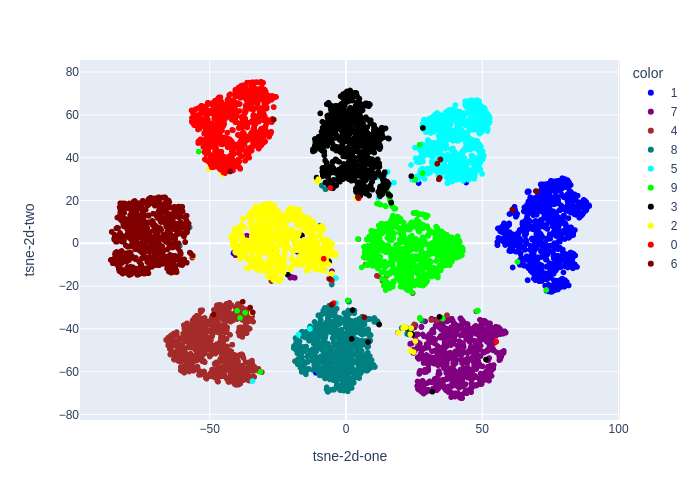
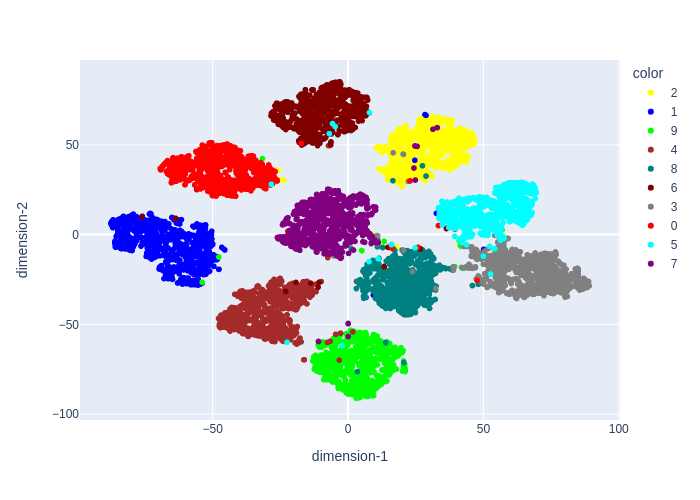
all plots done for phase one

diff --git a/plot_ssin.py b/plot_ssin.py
@@ -1,0 +1,194 @@
+"""
+This file is created to plot the SSIN scores of recon, old and new attacks
+with the original images. Let's do this and delete afterwards
+"""
+import yaml
+import time
+import torch
+import numpy as np
+import foolbox as fb
+import torch.nn.functional as F
+import pytorch_lightning as pl
+import matplotlib.pyplot as plt
+from skimage.metrics import structural_similarity as ssim
+from skimage.metrics import peak_signal_noise_ratio as psnr
+
+device = torch.device("cuda") if torch.cuda.is_available() else torch.device("cpu")
+
+from torch import nn
+from torch import Tensor
+from utils import save, load
+from typing import List, Tuple, Callable
+from dataloader import load_mnist
+from models.classifier import MNISTClassifier, CIFAR10Classifier
+from models.autoencoder import ANNAutoencoder, BaseAutoEncoder, CIFAR10Autoencoder
+from attack_new import make_hybrid_model, get_embeddings
+
+# first load the config
+with open("./configs/mnist.yml", "r") as f:
+    config = yaml.safe_load(f)
+
+ROOT             = config["paths"]["root"]
+AUTOENCODER_PATH = config["paths"]["autoencoder-path"]
+CLASSIFIER_PATH  = config["paths"]["classifier-path"]
+BOUNDS           = (config["specs"]["bounds"][0], config["specs"]["bounds"][1])
+PLOT             = config["specs"]["plot"]
+BATCH_SIZE       = config["specs"]["batch_size"]
+RESHAPE          = (config["specs"]["reshape"][0], config["specs"]["reshape"][1])
+LOAD_FUNCTION    = load_mnist
+
+epsilons = [i/100 for i in range(1, 50, 1)]
+attacks = [
+        # fb.attacks.FGSM(),
+        # fb.attacks.LinfPGD(),
+        # fb.attacks.LinfBasicIterativeAttack(),
+        fb.attacks.LinfDeepFoolAttack(),
+        # fb.attacks.L2CarliniWagnerAttack(),
+        # fb.attacks.LinfAdditiveUniformNoiseAttack(),
+    ]
+
+attack_names = [
+    # "FGSM",
+    # "Linf_PGD",
+    # "Linf_BIM",
+    "Linf_DeepFool",
+    # "L2_C&W",
+    # "Linf_AUN"
+]
+
+def filter_images(images: Tensor, labels: Tensor):
+    visited = [False] * 10
+    ten_images, ten_lables = [None]*10, [None]*10
+    for img, lbl in zip(images, labels):
+        if not visited[lbl.item()]:
+            ten_images[lbl.item()] = img
+            ten_lables[lbl.item()] = lbl
+            visited[lbl.item()] = True
+    ten_images = torch.stack(ten_images)
+    ten_lables = torch.stack(ten_lables)
+
+    return ten_images, ten_lables
+
+def compute_ssim(images_1: List[Tensor], images_2: List[Tensor]):
+    """
+    Take a set of two image lists and
+    compute ssim scores between them.
+    
+    return list of ssim scores
+    """
+    assert len(images_1) == len(images_2)
+
+    ssim_score = []
+    for img1, img2 in zip(images_1, images_2):
+        ssim_score.append(psnr(img1.reshape(RESHAPE).detach().cpu().numpy(), img2.reshape(RESHAPE).detach().cpu().numpy()))
+    
+    return ssim_score
+
+saved_tens = load("objects/ten.pkl")
+
+ten_images, ten_labels = saved_tens["images"], saved_tens["labels"]
+
+# call appropiate methods to get models and embeddings
+fmodel, orig_fmodel, autoencoder_model, classifier_model = make_hybrid_model(
+                                            autoencoder_path=AUTOENCODER_PATH,
+                                            classifier_path=CLASSIFIER_PATH,
+                                            bounds=BOUNDS)
+embeddings, images, labels, x_hat = get_embeddings(autoencoder_model=autoencoder_model,
+                                                    images=ten_images, labels=ten_labels)
+
+# launch an attack
+for i, attack in enumerate(attacks):
+
+    print(f"Running {attack_names[i]} Attack....")
+
+    # carryout the attack on original
+    start = time.time()
+    orig_noises, orig_advs, orig_success = attack(orig_fmodel, images, labels, epsilons=epsilons)
+    print(f"Time spent on original attack: {time.time() - start}")
+
+    # carryout the modified attack
+    start = time.time()
+    noises, advs, success = attack(fmodel, embeddings, labels, epsilons=epsilons)
+    print(f"Time spent on modified attack: {time.time() - start}")
+
+plt.figure(figsize=(18, 4))
+INDEX = -1
+fake_images = []
+orig_diff_img = images - orig_noises[INDEX]
+
+recon_images = autoencoder_model(images)[0]
+orig_attack_adv_images = orig_noises[INDEX]
+modified_attack_adv_z = noises[INDEX]
+modified_attack_adv_images = autoencoder_model.get_x_hat(modified_attack_adv_z)
+
+# print(type(images), type(recon_images), type(orig_attack_adv_images), type(modified_attack_adv_images))
+# import pdb; pdb.set_trace()
+
+ssim_scores = {}
+ssim_scores["reconstructed"] = compute_ssim(images, recon_images)
+ssim_scores["orig_adv_images"] = compute_ssim(images, orig_attack_adv_images)
+ssim_scores["modified_adv_images"] = compute_ssim(images, modified_attack_adv_images)
+
+import pprint as pprint
+print(ssim_scores)
+
+
+# for i, img in enumerate(images):
+#     ylabel = "Original" if not i else None
+#     img = img.reshape(RESHAPE).cpu()
+#     plt.subplot(5, 10, i+1, xticks=[], yticks=[], ylabel=ylabel)
+#     plt.imshow(img)
+# for i, img in enumerate(orig_noises[INDEX]):
+#     label = np.argmax(classifier_model(img).detach().cpu()).item()
+#     ylabel = attack_names[0] if not i else None
+#     img = img.reshape(RESHAPE).cpu()
+#     plt.subplot(5, 10, i+11, xticks=[], yticks=[], ylabel=ylabel, xlabel=f"Predicted: {label}")
+#     plt.imshow(img)
+# for i, img in enumerate(orig_diff_img):
+#     ylabel = "Noise" if not i else None
+#     img = img.reshape(RESHAPE).cpu()
+#     plt.subplot(5, 10, i+21, xticks=[], yticks=[], ylabel=ylabel)
+#     plt.imshow(img)
+# for i, adv in enumerate(noises[INDEX]):
+#     ylabel = f"{attack_names[0]}" if not i else None
+#     img = autoencoder_model.get_x_hat(adv)
+#     label = np.argmax(classifier_model(img).detach().cpu()).item()
+#     fake_images.append(img)
+#     img = img.reshape(RESHAPE).detach().cpu()
+#     # plt.subplot(5, 10, i+31, xticks=[], yticks=[], ylabel=ylabel, xlabel=f"Predicted: {label}")
+#     # plt.imshow(img)
+# fake_images = torch.stack(fake_images)
+# diff_img = images - fake_images
+
+# orig_norm_inf = np.linalg.norm(orig_diff_img.detach().cpu(), ord=np.inf, axis=1)
+# norm_inf      = np.linalg.norm(diff_img.detach().cpu(), ord=np.inf, axis=1)
+# orig_norm_2 = np.linalg.norm(orig_diff_img.detach().cpu(), ord=2, axis=1)
+# norm_2      = np.linalg.norm(diff_img.detach().cpu(), ord=2, axis=1)
+
+# print(f"Linf Norm of Original Attacks: {orig_norm_inf}")
+# print(f"Linf Norm of Modified Attacks: {norm_inf}")
+# print(f"L2 Norm of Original Attacks: {orig_norm_2}")
+# print(f"L2 Norm of Original Attacks: {norm_2}")
+
+# for i, linf_norm in enumerate(orig_norm_inf):
+#     ylabel = "Deepfool" if not i else None
+#     img = orig_diff_img[i].reshape(RESHAPE).detach().cpu()
+#     plt.subplot(2, 10, i+1, xticks=[], yticks=[], ylabel=ylabel, xlabel=f"Linf: {orig_norm_inf[i]:4.1f}, L2: {orig_norm_2[i]:4.1f}")
+#     plt.imshow(img)
+    
+# for i, linf_norm in enumerate(norm_inf):
+#     ylabel = "Our Method" if not i else None
+#     img = diff_img[i].reshape(RESHAPE).detach().cpu()
+#     plt.subplot(2, 10, i+11, xticks=[], yticks=[], ylabel=ylabel, xlabel=f"Linf: {norm_inf[i]:4.1f}, L2: {norm_2[i]:4.1f}")
+#     plt.imshow(img)
+# plt.savefig('img/noise_norm_deepfool.jpg')
+# for i, img in enumerate(diff_img):
+#     ylabel = "Noise" if not i else None
+#     img = img.reshape(RESHAPE).detach().cpu()
+#     plt.subplot(5, 10, i+41, xticks=[], yticks=[], ylabel=ylabel)
+#     plt.imshow(img)
+# plt.savefig('img/orig_attack_aun.jpg')
+
+# print(type(noises), type(advs), type(success))
+# print(noises[-1].shape, advs[-1].shape)
+# print(noises[-1][0].shape)

diff --git a/models/autoencoder.py b/models/autoencoder.py
@@ -390,52 +390,53 @@ if __name__ == "__main__":
     """
     Testing MNIST autoencoder
     """
-    train_dataloader, valid_dataloader, test_dataloader = load_mnist(
-        root="/home/sweta/scratch/datasets/MNIST/", batch_size=128
-    )
-    model = ANNAutoencoder()
-    trainer = pl.Trainer(max_epochs=10, gpus=1, default_root_dir="..")
-    # trainer.fit(model, train_dataloader, valid_dataloader)    
+    # train_dataloader, valid_dataloader, test_dataloader = load_mnist(
+    #     root="/home/sweta/scratch/datasets/MNIST/", batch_size=128
+    # )
+    # model = ANNAutoencoder()
+    # trainer = pl.Trainer(max_epochs=10, gpus=1, default_root_dir="..")
+    # # trainer.fit(model, train_dataloader, valid_dataloader)    
 
-    model = ANNAutoencoder.load_from_checkpoint("../lightning_logs/version_0/checkpoints/epoch=9-step=9370.ckpt")
-    model.eval()
-    preds = trainer.predict(model, dataloaders=test_dataloader, return_predictions=True)
-    print(len(preds))
+    # model = ANNAutoencoder.load_from_checkpoint("../lightning_logs/version_0/checkpoints/epoch=9-step=9370.ckpt")
+    # model.eval()
+    # preds = trainer.predict(model, dataloaders=test_dataloader, return_predictions=True)
+    # print(len(preds))
 
     """
     Testing class-constrained MNIST autoencoder
     """
-    # train_dataloader, valid_dataloader, test_dataloader = load_mnist(batch_size=128)
-    # model = ClassConstrainedANNAutoencoder()
-    # trainer = pl.Trainer(max_epochs=10, gpus=1, default_root_dir="..", checkpoint_callback=True, logger=True)
-    # # trainer.fit(model, train_dataloader, valid_dataloader)    
+    train_dataloader, valid_dataloader, test_dataloader = load_mnist(batch_size=128)
+    model = ClassConstrainedANNAutoencoder()
+    trainer = pl.Trainer(max_epochs=10, gpus=1, default_root_dir="..", checkpoint_callback=True, logger=True)
+    # trainer.fit(model, train_dataloader, valid_dataloader)    
 
-    # model = ClassConstrainedANNAutoencoder.load_from_checkpoint("../lightning_logs/version_14/checkpoints/epoch=9-step=4290.ckpt")
-    # model = model.to(device)
-    # model.eval()
+    model = ClassConstrainedANNAutoencoder.load_from_checkpoint("../lightning_logs/version_14/checkpoints/epoch=9-step=4290.ckpt")
+    model = model.to(device)
+    model.eval()
 
-    # _, _, test_dataloader = load_mnist(batch_size=1)
-    # encoded_samples = []
-    # for i, (image, label) in enumerate(test_dataloader):
-    #     image = image.to(device)
-    #     label = label.item()
+    _, _, test_dataloader = load_mnist(batch_size=1)
+    encoded_samples = []
+    for i, (image, label) in enumerate(test_dataloader):
+        image = image.to(device)
+        label = label.item()
 
-    #     with torch.no_grad():
-    #         z = model.get_z(image)
-    #     encoded_img = z.flatten().cpu().numpy()
-    #     encoded_sample = {f"Enc. Variable {i}": enc for i, enc in enumerate(encoded_img)}
-    #     encoded_sample['label'] = label
-    #     encoded_samples.append(encoded_sample)
+        with torch.no_grad():
+            z = model.get_z(image)
+        encoded_img = z.flatten().cpu().numpy()
+        encoded_sample = {f"Enc. Variable {i}": enc for i, enc in enumerate(encoded_img)}
+        encoded_sample['label'] = label
+        encoded_samples.append(encoded_sample)
 
-    # encoded_samples = pd.DataFrame(encoded_samples)
-    # # print(encoded_samples)
-    # tsne = TSNE(n_components=2)
-    # tsne_results = tsne.fit_transform(encoded_samples.drop(['label'],axis=1))
-    # fig = px.scatter(tsne_results, x=0, y=1,
-    #                 color=encoded_samples.label.astype(str),
-    #                 color_discrete_map={"0":"red", "1":"blue", "2":"yellow", "3":"black", "4":"brown", "5":"aqua", "6":"maroon", "7":"purple", "8":"teal", "9":"lime"},
-    #                 labels={'0': 'tsne-2d-one', '1': 'tsne-2d-two'})
-    # fig.write_image("../img/tsne_lightning.png")
+    encoded_samples = pd.DataFrame(encoded_samples)
+    # print(encoded_samples)
+    tsne = TSNE(n_components=2)
+    tsne_results = tsne.fit_transform(encoded_samples.drop(['label'],axis=1))
+
+    fig = px.scatter(tsne_results, x=0, y=1,
+                    color=encoded_samples.label.astype(str),
+                    color_discrete_map={"0":"red", "1":"blue", "2":"yellow", "3":"gray", "4":"brown", "5":"aqua", "6":"maroon", "7":"purple", "8":"teal", "9":"lime"},
+                    labels={'0': 'dimension-1', '1': 'dimension-2'})
+    fig.write_image("../img/tsne_constrained_ae.png")
 
     """
     Testing FashionMNIST autoencoder

diff --git a/visualise_tsne.py b/visualise_tsne.py
@@ -36,6 +36,7 @@ encoded_samples = pd.DataFrame(encoded_samples)
 tsne = TSNE(n_components=2)
 tsne_results = tsne.fit_transform(encoded_samples.drop(['label'],axis=1))
 fig = px.scatter(tsne_results, x=0, y=1,
-                color=encoded_samples.label.astype(str),
-                labels={'0': 'tsne-2d-one', '1': 'tsne-2d-two'})
-fig.write_image("img/tsne_normal.png")
+                    color=encoded_samples.label.astype(str),
+                    color_discrete_map={"0":"red", "1":"blue", "2":"yellow", "3":"gray", "4":"brown", "5":"aqua", "6":"maroon", "7":"purple", "8":"teal", "9":"lime"},
+                    labels={'0': 'dimension-1', '1': 'dimension-2'})
+fig.write_image("img/tsne_vanilla_ae.png")
